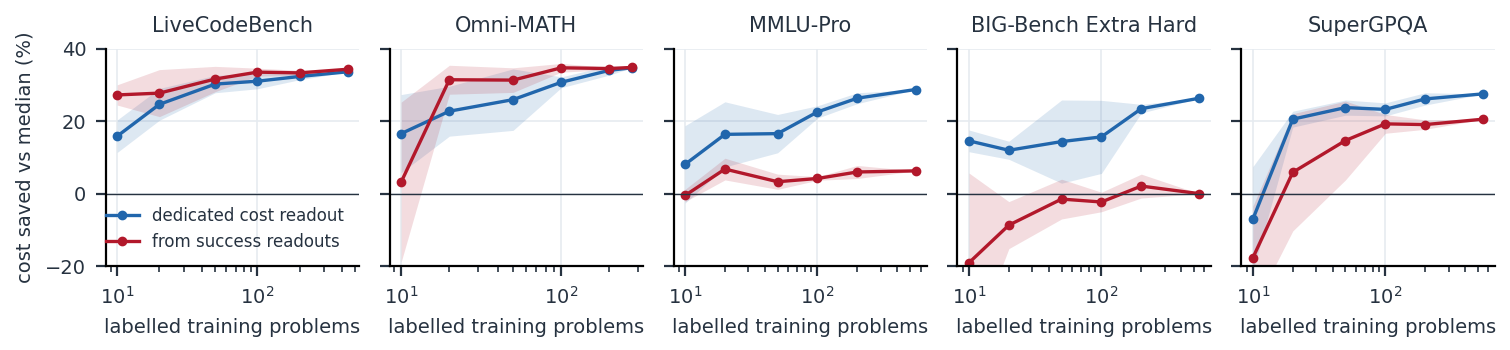
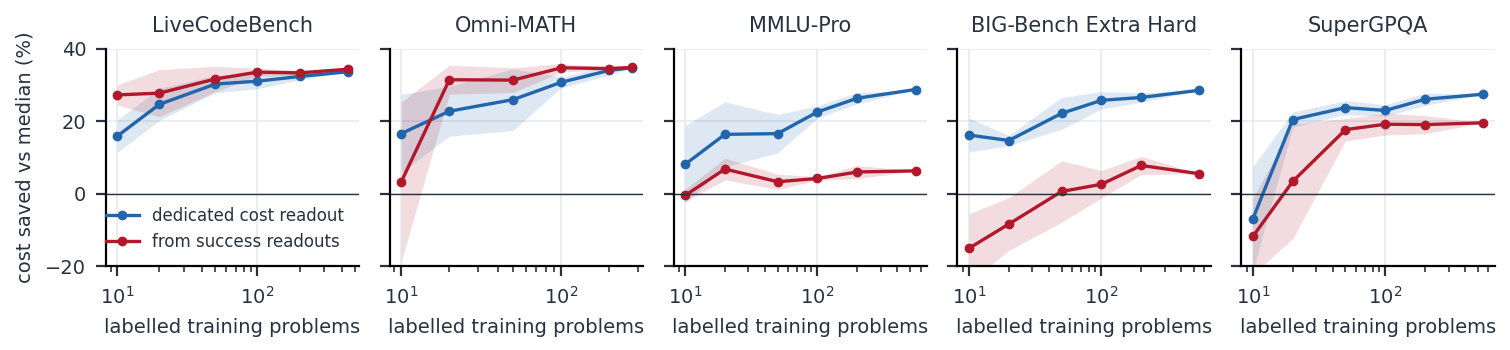
TMLR: refreshed BBEH/SuperGPQA numbers in sec:general (labels, onboarding, transfer), robustness paragraph, SWE-Smith MixLLM row, label figure

diff --git a/paper_tmlr/main.tex b/paper_tmlr/main.tex
@@ -214,7 +214,7 @@ Given success readouts, where length tracks difficulty a cost readout needs few 
 \begin{figure}[t]
 \centering
 \includegraphics[width=\linewidth]{figures/label_efficiency.pdf}
-\caption{\textbf{Length labels needed.} Cost saved relative to median pricing when the cost readout is fitted on $n$ labelled training problems: a dedicated readout on the prefill (blue) versus pricing from the success readouts (red), which needs length labels only to map success logits to length. Mean over five random subsets; bands $\pm$1 s.d. Where length tracks difficulty (LiveCodeBench, Omni-MATH), pricing from success is as good from 20 problems on; where it tracks the work a question requires (MMLU-Pro, BIG-Bench Extra Hard), it stays near zero at every $n$.}
+\caption{\textbf{Length labels needed.} Cost saved relative to median pricing when the cost readout is fitted on $n$ labelled training problems: a dedicated readout on the prefill (blue) versus pricing from the success readouts (red), which needs length labels only to map success logits to length. Mean over five random subsets; bands $\pm$1 s.d. Where length tracks difficulty (LiveCodeBench, Omni-MATH), pricing from success is as good from 20 problems on; where it tracks the work a question requires (MMLU-Pro, BIG-Bench Extra Hard), it stays below 8\% at every $n$.}
 \label{fig:labels}
 \end{figure}
 
@@ -225,7 +225,7 @@ At matched accuracy in the middle of the band, 31--66\% of problems change route
 Where length tracks difficulty, pricing from the success readouts ties the dedicated cost readout when both are fitted on a benchmark's full training set (\cref{tab:pools}). A deployed router rarely has that: it has few labels, it adds models, and it meets benchmarks it was not trained on. We test the cost estimators in all three settings, with every estimator given the same success predictions unless stated, and the same protocol as before.
 
 \paragraph{Few labels.}
-\Cref{tab:labels} refits every cost estimator on 20 randomly chosen training problems (five subsets). Our readout keeps 57--75\% of its full-data saving on four of five pools (LCB 24.7\%, Omni-MATH 22.8\%, MMLU-Pro 16.4\%, SuperGPQA 20.6\%), while the external estimators save less than 11\% on every pool. Their deficit narrows with data but stays large on most pools: at 100 problems ours saves 22.6\% on MMLU-Pro against at most 10.6\% for any external estimator, with every paired interval excluding zero. The exception is BIG-Bench Extra Hard, where the task format is visible in the text: the text estimators reach 19--22\% at 100 problems and tie ours at full data. Pricing from the success readouts is the strongest arm on LCB and Omni-MATH from 20 problems on, as in \cref{fig:labels}, and far behind ours on the two heterogeneous pools.
+\Cref{tab:labels} refits every cost estimator on 20 randomly chosen training problems (five subsets). Our readout keeps 51--75\% of its full-data saving on every pool (LCB 24.7\%, Omni-MATH 22.8\%, MMLU-Pro 16.4\%, SuperGPQA 20.5\%, BIG-Bench Extra Hard 14.7\%), while the external estimators save less than 11\% on every pool. Their deficit narrows with data but stays large on most pools: at 100 problems ours saves 22.6\% on MMLU-Pro against at most 10.6\% for any external estimator, with every paired interval excluding zero. The exception is BIG-Bench Extra Hard, where the task format is visible in the text: the text estimators reach 20--21\% at 100 problems and tie ours at full data, though below 50 problems ours still leads (by 22.7 [5.8, 42.2] points over MixLLM-style embeddings at 50). Pricing from the success readouts is the strongest arm on LCB and Omni-MATH from 20 problems on, as in \cref{fig:labels}, and far behind ours on the two heterogeneous pools.
 
 \begin{table}[t]
 \centering
@@ -235,22 +235,22 @@ Where length tracks difficulty, pricing from the success readouts ties the dedic
 \toprule
 Cost estimator, 20 training problems & LCB & Omni-MATH & MMLU-Pro & SuperGPQA & BBEH \\
 \midrule
-Ours (prefill readout) & \textbf{24.7} & 22.8 & \textbf{16.4} & \textbf{20.6} & 10.6 \\
-Cost from success (our ablation) & 27.8 & 31.5 & 6.8 & 5.9 & $-$15.0 \\
-Prompt-feature GBM & $-$7.7 & 0.1 & 2.8 & 2.3 & 2.3 \\
-MixLLM-style embeddings & $-$1.8 & 7.0 & 2.5 & 3.4 & $-$5.8 \\
-CARROT-style $k$NN & 0.1 & 6.0 & 10.7 & 7.4 & $-$1.4 \\
-ZeroRouter pricing & 7.6 & 9.3 & 3.5 & $-$9.2 & $-$3.6 \\
+Ours (prefill readout) & \textbf{24.7} & 22.8 & \textbf{16.4} & 20.5 & 14.7 \\
+Cost from success (our ablation) & 27.8 & 31.5 & 6.8 & 3.4 & $-$8.4 \\
+Prompt-feature GBM & $-$7.7 & 0.1 & 2.8 & 2.5 & 7.9 \\
+MixLLM-style embeddings & $-$1.8 & 7.0 & 2.5 & 3.4 & $-$11.6 \\
+CARROT-style $k$NN & 0.1 & 6.0 & 10.7 & 7.3 & $-$5.7 \\
+ZeroRouter pricing & 7.6 & 9.3 & 3.5 & $-$9.5 & $-$3.9 \\
 \midrule
-\emph{Ours, all training problems (refit)} & 33.7 & 34.8 & 28.8 & 27.6 & 26.1 \\
+\emph{Ours, all training problems (refit)} & 33.7 & 34.8 & 28.8 & 27.5 & 28.6 \\
 \bottomrule
 \end{tabular}
-\caption{\textbf{Few labels.} Cost saved (\%) relative to median pricing (from the full training set) when each cost estimator is fitted on 20 random training problems; mean of five subsets; every arm routes with the same success readouts. ZeroRouter pricing: its item-response latent fitted on the 20 problems, read from the prefill, with its bin lookup; $k$NN neighbours and ZeroRouter's dimension and bin count chosen on the calibration split. Bold: ours exceeds every external estimator with paired intervals excluding zero (LCB from $n$=20, SuperGPQA from $n$=50, MMLU-Pro from $n$=100).}
+\caption{\textbf{Few labels.} Cost saved (\%) relative to median pricing (from the full training set) when each cost estimator is fitted on 20 random training problems; mean of five subsets; every arm routes with the same success readouts. ZeroRouter pricing: its item-response latent fitted on the 20 problems, read from the prefill, with its bin lookup; $k$NN neighbours and ZeroRouter's dimension and bin count chosen on the calibration split. Bold: ours exceeds every external estimator with paired intervals excluding zero (LCB from $n$=20, MMLU-Pro from $n$=100); on SuperGPQA it does so at $n$=50 only, and on BIG-Bench Extra Hard the prompt-feature GBM stays within noise at every $n$.}
 \label{tab:labels}
 \end{table}
 
 \paragraph{New models.}
-To add a model, a router needs its success and cost readouts. We hold out one model at a time from the pool (both efforts of gpt-oss-20b, both efforts of gpt-oss-120b, or deepseek-v4-flash, so that no sibling effort of the new model remains) and fit its readouts from $k$ labelled problems while every other route keeps its full readouts. Our onboarding fits two parameters per readout: an offset to the other routes' predicted log length, and a logistic map from their mean success logit. ZeroRouter's onboarding, its main use case, fits the new model's ability on the same $k$ anchors in an item-response latent fitted on the remaining routes and fills its per-bin length table from them~\citep{zerorouter}; a CARROT-style arm averages the $k$ anchors' outcomes and lengths over nearest neighbours. \Cref{tab:onboard} reports the mean over the three held-out models. From 10 examples our router saves 13.5--25.6\%, against 5.8--22.4\% for ZeroRouter's onboarding, and leads it by 10.1 [1.4, 23.7] points on MMLU-Pro and 14.6 [3.0, 26.0] on SuperGPQA; at $k$=50 it also leads on LCB (9.3 [3.0, 17.0]). On Omni-MATH and BIG-Bench Extra Hard the two are within noise. The gain concentrates on deepseek-v4-flash, the one model whose family is not otherwise in the pool, and whose absence makes the router spend more than median pricing on four of five pools: onboarding it from 10 problems recovers 10--35 points more than ZeroRouter's onboarding does. ZeroRouter's Fisher-information anchors help both methods about equally; with the same anchors ours ties on LCB and Omni-MATH and leads by 6--16 points on the other three pools at $k$=10.
+To add a model, a router needs its success and cost readouts. We hold out one model at a time from the pool (both efforts of gpt-oss-20b, both efforts of gpt-oss-120b, or deepseek-v4-flash, so that no sibling effort of the new model remains) and fit its readouts from $k$ labelled problems while every other route keeps its full readouts. Our onboarding fits two parameters per readout: an offset to the other routes' predicted log length, and a logistic map from their mean success logit. ZeroRouter's onboarding, its main use case, fits the new model's ability on the same $k$ anchors in an item-response latent fitted on the remaining routes and fills its per-bin length table from them~\citep{zerorouter}; a CARROT-style arm averages the $k$ anchors' outcomes and lengths over nearest neighbours. \Cref{tab:onboard} reports the mean over the three held-out models. From 10 examples our router saves 17.1--25.6\%, against 4.4--22.4\% for ZeroRouter's onboarding, and leads it by 10.1 [1.4, 23.7] points on MMLU-Pro and 15.7 [0.4, 31.5] on SuperGPQA; at $k$=50 it also leads on LCB (9.3 [3.0, 17.0]). On Omni-MATH and BIG-Bench Extra Hard the two are within noise. The gain concentrates on deepseek-v4-flash, the one model whose family is not otherwise in the pool, and whose absence makes the router spend more than median pricing on four of five pools: onboarding it from 10 problems recovers 11--38 points more than ZeroRouter's onboarding does. ZeroRouter's Fisher-information anchors help both methods about equally; with the same anchors ours ties on LCB and Omni-MATH and leads by 5--14 points on the other three pools at $k$=10.
 \todo{New routed families (Qwen3-32B, GLM-4.7-flash, Nemotron-3-super) on all three main sets are being collected (NEW\_PATH 4.A.76): whole-family onboarding beyond one cross-family model; add a row block or replace the held-out set.}
 
 \begin{table}[t]
@@ -261,15 +261,15 @@ To add a model, a router needs its success and cost readouts. We hold out one mo
 \toprule
  & LCB & Omni-MATH & MMLU-Pro & SuperGPQA & BBEH \\
 \midrule
-Ours, $k$=10 & 24.6 & 25.6 & 22.6 & 20.4 & 13.5 \\
-ZeroRouter onboarding, $k$=10 & 13.6 & 22.4 & 12.6 & 5.8 & 6.0 \\
-CARROT-style $k$NN, $k$=10 & 13.3 & 15.3 & 8.5 & 7.4 & 11.9 \\
-Median length + base rate, $k$=10 & $-$7.1 & 10.6 & 2.9 & 3.5 & 5.8 \\
+Ours, $k$=10 & 24.6 & 25.6 & 22.6 & 20.1 & 17.1 \\
+ZeroRouter onboarding, $k$=10 & 13.6 & 22.4 & 12.6 & 4.4 & 9.7 \\
+CARROT-style $k$NN, $k$=10 & 13.3 & 15.3 & 8.5 & 7.0 & 13.9 \\
+Median length + base rate, $k$=10 & $-$7.1 & 10.6 & 2.9 & 3.3 & 10.3 \\
 \midrule
-Ours $-$ ZeroRouter, $k$=10 & 10.9 [$-$2.0, 24.1] & 3.2 [$-$12.3, 27.9] & 10.1 [1.4, 23.7] & 14.6 [3.0, 26.0] & 7.5 [$-$2.2, 17.9] \\
-Ours $-$ ZeroRouter, $k$=50 & 9.3 [3.0, 17.0] & $-$0.2 [$-$7.3, 6.0] & 9.6 [2.2, 14.8] & 12.8 [5.8, 23.0] & 4.2 [$-$1.6, 16.6] \\
+Ours $-$ ZeroRouter, $k$=10 & 10.9 [$-$2.0, 24.1] & 3.2 [$-$12.3, 27.9] & 10.1 [1.4, 23.7] & 15.7 [0.4, 31.5] & 7.4 [$-$1.9, 20.9] \\
+Ours $-$ ZeroRouter, $k$=50 & 9.3 [3.0, 17.0] & $-$0.2 [$-$7.3, 6.0] & 9.6 [2.2, 14.8] & 13.4 [5.8, 23.8] & 3.7 [$-$1.1, 7.8] \\
 \midrule
-\emph{All routes on full readouts} & 33.7 & 34.8 & 28.8 & 27.6 & 26.5 \\
+\emph{All routes on full readouts} & 33.7 & 34.8 & 28.8 & 27.5 & 28.6 \\
 \bottomrule
 \end{tabular}
 \caption{\textbf{Onboarding a new model from $k$ examples.} Cost saved (\%) relative to the full pool at median pricing, mean over three held-out models (gpt-oss-20b with both efforts, gpt-oss-120b with both efforts, deepseek-v4-flash) and 20 random draws of the $k$ anchors (the same anchors in every arm); every other route keeps its full readouts. Differences in points with 95\% paired bootstrap intervals over test problems. ZeroRouter's dimension and bin count and the $k$NN neighbour count are chosen on calibration.}
@@ -277,7 +277,7 @@ Ours $-$ ZeroRouter, $k$=50 & 9.3 [3.0, 17.0] & $-$0.2 [$-$7.3, 6.0] & 9.6 [2.2,
 \end{table}
 
 \paragraph{New benchmarks.}
-Finally, we move a whole router to a benchmark it has not seen: both readouts are trained on the other pools of the same domain (code, or math and knowledge), with every choice (regularisation, Platt calibration, neighbour counts, latent dimension, bin count) made on those pools' calibration splits, so no label of the target is used. \Cref{tab:transfer} compares it with the router trained on the target itself. On LCB, MMLU-Pro and AIME the transferred router keeps 90--95\% of its in-domain saving (32.1\%, 27.3\% and 14.2\%), and on APPS it exceeds it. The prefill router's rule, the same transferred success readouts with median pricing, saves at most 2\% on any of these, so the transferred cost readout carries the result, even though transferred success predictions are weaker (LCB AUC .65 against .83). Ours leads every external estimator transferred the same way, by 7--24 points on these four pools. Transfer is weaker on the two heterogeneous pools and on Omni-MATH (7.3--19.0\%). Combining both sources of labels is better than either: with ten labelled target problems added to the source data, the cost readout saves 27.8\% on MMLU-Pro and 13.1\% on AIME (with the target's success readouts), against 8.1\% and 4.4\% from the ten problems alone, and 21.7\% against 10.6\% on BIG-Bench Extra Hard with twenty. Pricing from the success readouts transfers unevenly. With the target's own success readouts and a map trained on the other pools, it keeps its saving where the target's kind of difficulty resembles its sources' (APPS 17.1\%, AIME 13.2\%, CodeContests 9.3\%) and collapses elsewhere: from 34.4\% to $-$6.2\% on LCB, 20.6\% to $-$19.9\% on SuperGPQA, 18.0\% to 5.2\% on Omni-MATH and $-$0.3\% to $-$16.9\% on BIG-Bench Extra Hard. Under the same conditions the dedicated readout saves 30.2\%, 17.5\%, 15.6\% and 11.3\% on those four, and ZeroRouter's difficulty-bin pricing transfers as unevenly as pricing from success.
+Finally, we move a whole router to a benchmark it has not seen: both readouts are trained on the other pools of the same domain (code, or math and knowledge), with every choice (regularisation, Platt calibration, neighbour counts, latent dimension, bin count) made on those pools' calibration splits, so no label of the target is used. \Cref{tab:transfer} compares it with the router trained on the target itself. On LCB, MMLU-Pro and AIME the transferred router keeps 90--95\% of its in-domain saving (32.1\%, 27.3\% and 14.1\%), and on APPS it exceeds it. The prefill router's rule, the same transferred success readouts with median pricing, saves at most 2\% on any of these, so the transferred cost readout carries the result, even though transferred success predictions are weaker (LCB AUC .65 against .83). Ours leads every external estimator transferred the same way, by 7--24 points on these four pools. Transfer is weaker on the two heterogeneous pools and on Omni-MATH (7.8--19.3\%), but still ahead of every transferred external estimator, which save at most 4.0\% there. Combining both sources of labels is better than either: with ten labelled target problems added to the source data, the cost readout saves 27.9\% on MMLU-Pro and 13.1\% on AIME (with the target's success readouts), against 8.1\% and 4.4\% from the ten problems alone, and 24.1\% against 14.7\% on BIG-Bench Extra Hard with twenty. Pricing from the success readouts transfers unevenly. With the target's own success readouts and a map trained on the other pools, it keeps its saving where the target's kind of difficulty resembles its sources' (APPS 17.1\%, AIME 12.3\%, CodeContests 9.3\%) and collapses elsewhere: from 34.4\% to $-$6.2\% on LCB, 19.6\% to $-$21.9\% on SuperGPQA, 18.0\% to 6.5\% on Omni-MATH and 5.5\% to $-$20.5\% on BIG-Bench Extra Hard. Under the same conditions the dedicated readout saves 30.2\%, 17.7\%, 15.7\% and 16.1\% on those four, and ZeroRouter's difficulty-bin pricing transfers as unevenly as pricing from success.
 
 \begin{table}[t]
 \centering
@@ -290,19 +290,22 @@ Target & in-domain & transferred & transferred & transferred \\
 \midrule
 LiveCodeBench & 33.7 & 32.1 & 2.0 & 7.8 (MixLLM) \\
 APPS & 12.8 & 21.7 & $-$0.7 & 11.0 (MixLLM) \\
-MMLU-Pro & 28.8 & 27.3 & $-$1.4 & 17.2 ($k$NN) \\
-AIME & 15.7 & 14.2 & $-$1.6 & 6.8 ($k$NN) \\
-SuperGPQA & 27.6 & 19.0 & $-$23.2 & 6.0 (MixLLM) \\
-BIG-Bench Extra Hard & 26.1 & 7.3 & $-$21.0 & $-$6.2 (MixLLM) \\
-Omni-MATH (500-problem pool) & 18.2 & 8.1 & $-$20.0 & 4.3 (MixLLM) \\
+MMLU-Pro & 28.8 & 27.3 & $-$1.5 & 17.3 ($k$NN) \\
+AIME & 15.7 & 14.1 & $-$1.6 & 6.8 ($k$NN) \\
+SuperGPQA & 27.5 & 19.3 & $-$22.5 & 4.0 (MixLLM) \\
+BIG-Bench Extra Hard & 28.6 & 8.6 & $-$19.1 & $-$5.4 (MixLLM) \\
+Omni-MATH (500-problem pool) & 18.2 & 7.8 & $-$20.0 & $-$0.5 (MixLLM) \\
 \bottomrule
 \end{tabular}
 \caption{\textbf{A router moved to a new benchmark.} Cost saved (\%) relative to the target's own median rule, at matched accuracy on its test set. Transferred: success and cost readouts trained on the other pools of the same domain (coding: LCB, APPS, BigCodeBench, CodeContests; math and knowledge: Omni-MATH, MMLU-Pro, AIME, SuperGPQA, BIG-Bench Extra Hard), with every choice made on their calibration splits. Prefill-router rule: the transferred success readouts with median pricing. External estimators transferred the same way, each with its own success model (MixLLM-style: logistic readout on the text embedding; $k$NN; ZeroRouter: its latent and bins). Ours exceeds every other arm with paired intervals excluding zero on LCB, MMLU-Pro, AIME and BIG-Bench Extra Hard. Omni-MATH uses its 500-problem pool (test 150), whose prefill matches the other pools'. BigCodeBench and CodeContests, where no in-domain estimator saves significantly, are omitted: there the transferred success readouts are badly miscalibrated (BigCodeBench log loss 1.17 against .67 in-domain) and the apparent gains are not robust.}
 \label{tab:transfer}
 \end{table}
 
+\paragraph{Which estimators lose least.}
+Holding the target's success readouts fixed, we bootstrap over test problems the drop from in-domain to transferred pricing for each estimator, and its difference from our drop. Ours loses significantly less than pricing from success on LCB (37.1 points [26.9, 46.0]), SuperGPQA (31.8 [16.3, 49.9]) and BIG-Bench Extra Hard (13.4 [1.4, 23.9]), and less than ZeroRouter's bin pricing on LCB (21.0 [11.7, 28.5]) and MMLU-Pro (4.0 [1.1, 8.2]); on the other pools the drops are within noise of each other, and on no pool does ours lose significantly more. Our own drop is significant only on the two heterogeneous pools (9.8 and 12.5 points).
+
 \paragraph{Why the cost readout transfers.}
-Training one readout on the target together with the other pools matches the target-only readout within about 3 points on every pool, so a single readout can serve all of them. Part of what transfers is shared structure: 24--40\% of each route's variance in log length lies between benchmarks, and the routes agree on which benchmarks are long (mean correlation of benchmark means across routes .84). Length $R^2$ under transfer is close to in-domain on LCB, APPS, AIME, Omni-MATH and SuperGPQA but falls sharply on MMLU-Pro (.02--.46 against .29--.63), where routing transfers fully nonetheless: routing needs the ordering of problems within a route and the contrast between routes, not calibrated absolute lengths.
+Training one readout on the target together with the other pools matches the target-only readout within 4.4 points on every pool, with no difference significant, so a single readout can serve all of them. Part of what transfers is shared structure: 24--40\% of each route's variance in log length lies between benchmarks, and the routes agree on which benchmarks are long (mean correlation of benchmark means across routes .84). Length $R^2$ under transfer is close to in-domain on LCB, APPS, AIME, Omni-MATH and SuperGPQA but falls sharply on MMLU-Pro (.02--.46 against .29--.63), where routing transfers fully nonetheless: routing needs the ordering of problems within a route and the contrast between routes, not calibrated absolute lengths.
 
 \section{When it works and when it does not}\label{sec:when}
 Per-query cost pays under two conditions: (a) output length varies within a route by more than prices differ between routes, which creates headroom, and (b) that variation can be read from the prompt, which lets an estimator capture it. Each of our two failures violates one condition, and neither is specific to our estimator (\cref{fig:capture}).
@@ -327,7 +330,7 @@ Non-reasoning routes combine both failures (\cref{tab:nonreason}): less headroom
 We study software engineering in two regimes: one-shot patch generation, where per-query cost pays as on the coding pools, and agents, where the price gaps between models dominate.
 
 \paragraph{One-shot patches.}
-On 1,432 SWE-Smith instances~\citep{swesmith}, each of the five routes writes one patch (deepseek-v4-flash pinned as elsewhere), labelled by executing the repository's tests in a sandbox. Pass rates are low and close together (25--37\%), but which instances are solvable is legible from the issue (success AUC .80--.83 per route on the 389 test instances where every route returned a patch). Output length varies 5--28$\times$ between a route's 10th- and 90th-percentile instances and is only modestly predictable (log-length $R^2$ .09--.37). Per-query cost knowledge is worth 25.2\% [15.0, 31.1] over median pricing, and our readouts save 14.5\% [5.8, 19.8], a capture of .58. They beat mean length by 7.8\% [3.5, 13.2], pricing from success by 9.2\% [2.2, 13.9] and prompt features by 18.2\% [8.1, 27.6]; difficulty bins (2.9\% [$-$0.3, 5.7]) and ZeroRouter (1.7\% [$-$4.7, 9.0]) are within noise. One-shot patch generation thus behaves like the coding pools.
+On 1,432 SWE-Smith instances~\citep{swesmith}, each of the five routes writes one patch (deepseek-v4-flash pinned as elsewhere), labelled by executing the repository's tests in a sandbox. Pass rates are low and close together (25--37\%), but which instances are solvable is legible from the issue (success AUC .80--.83 per route on the 389 test instances where every route returned a patch). Output length varies 5--28$\times$ between a route's 10th- and 90th-percentile instances and is only modestly predictable (log-length $R^2$ .09--.37). Per-query cost knowledge is worth 25.2\% [15.0, 31.1] over median pricing, and our readouts save 14.5\% [5.8, 19.8], a capture of .58. They beat mean length by 7.8\% [3.5, 13.2], pricing from success by 9.2\% [2.2, 13.9], MixLLM-style embeddings by 6.8\% [2.5, 10.6] and prompt features by 18.2\% [8.1, 27.6]; difficulty bins (2.9\% [$-$0.3, 5.7]) and ZeroRouter (1.7\% [$-$4.7, 9.0]) are within noise. One-shot patch generation thus behaves like the coding pools.
 
 \paragraph{Agents: cost is real, varies by task and is stable.}
 Public SWE-rebench trajectories~\citep{swerebench} give 111 tasks run five times by each of 13 models in one scaffold. Across models, agentic cost is dominated by the model: of the variance of log cost, 74\% is between models, 15\% between tasks, 6\% their interaction and 4\% run to run. Within a model, however, per-task cost spans 2.7--9.0$\times$ between the 10th and 90th percentile, and it is stable across runs (intraclass correlation .69--.92). Whether knowing it pays depends on the price gaps between the routed models, as in \cref{sec:when}: among all 13 models, whose prices per run span about 190$\times$, per-task cost knowledge is worth 8.5\% [$-$5.0, 17.8] (one-shot routing, success and cost from three runs, scored on the other two); among the seven open-weight models, whose prices span about 10$\times$, it is worth 25.7\% [6.3, 40.6], as much as on the reasoning pools.
@@ -335,7 +338,7 @@ Public SWE-rebench trajectories~\citep{swerebench} give 111 tasks run five times
 \paragraph{Agents: cost is only partly legible before the run.}
 From the issue text alone, the prefill's cost readout reaches out-of-fold $R^2$ of about zero on the 111 SWE-rebench tasks, too few to fit it. On 3,387 tasks with about 20 SWE-agent runs each (one model, Llama-3.1-70B; cost proxied by cumulative context and output length), the per-task mean cost is reliable (split-half reliability .91) and the issue text predicts it at $R^2$ .29, still rising with data (.18 with 100 tasks, .32 with 2,710). This is below what the prefill reaches on one-shot pools (.43--.83). Reading the first ten steps of a cheap model's trajectory predicts other models' per-task cost at $R^2$ .16 and the same run's final cost at .28, which suggests exploring cheaply before pricing the expensive candidates.
 
-\todo{MixLLM-style row for SWE-Smith (GPU embeddings, running). Decide whether the test-writer measurement (NEW\_PATH 4.B.2) belongs here. Cite the nebius SWE-agent trajectories dataset (verify on its Hugging Face page).}
+\todo{Decide whether the test-writer measurement (NEW\_PATH 4.B.2) belongs here. Cite the nebius SWE-agent trajectories dataset (verify on its Hugging Face page).}
 
 \section{Ablations}
 \paragraph{Is difficulty enough to price?}
